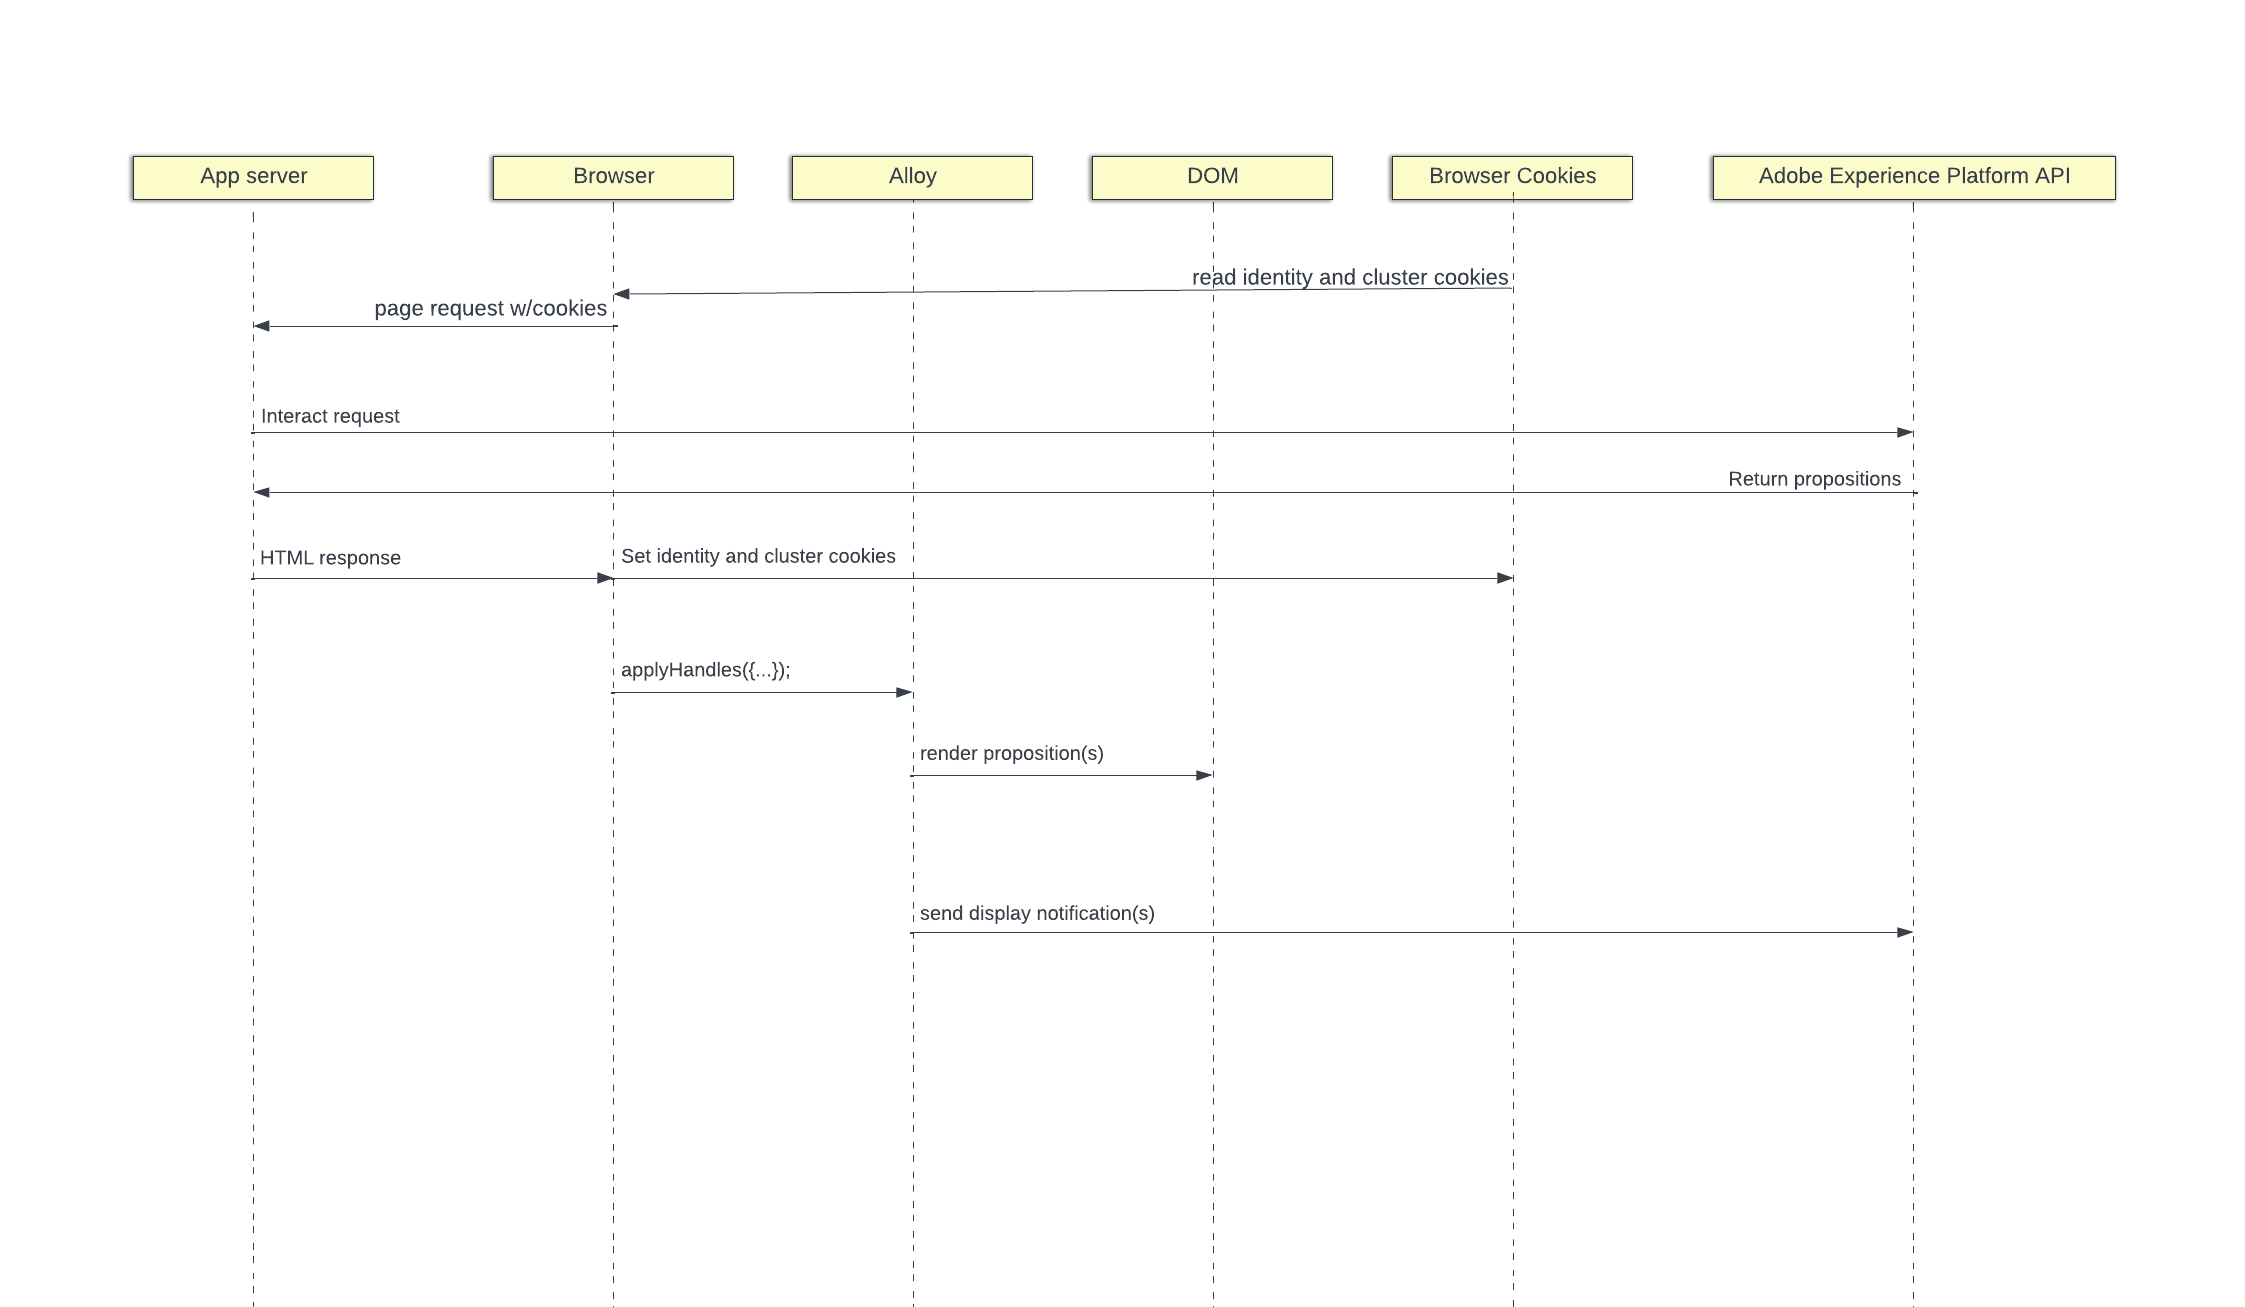
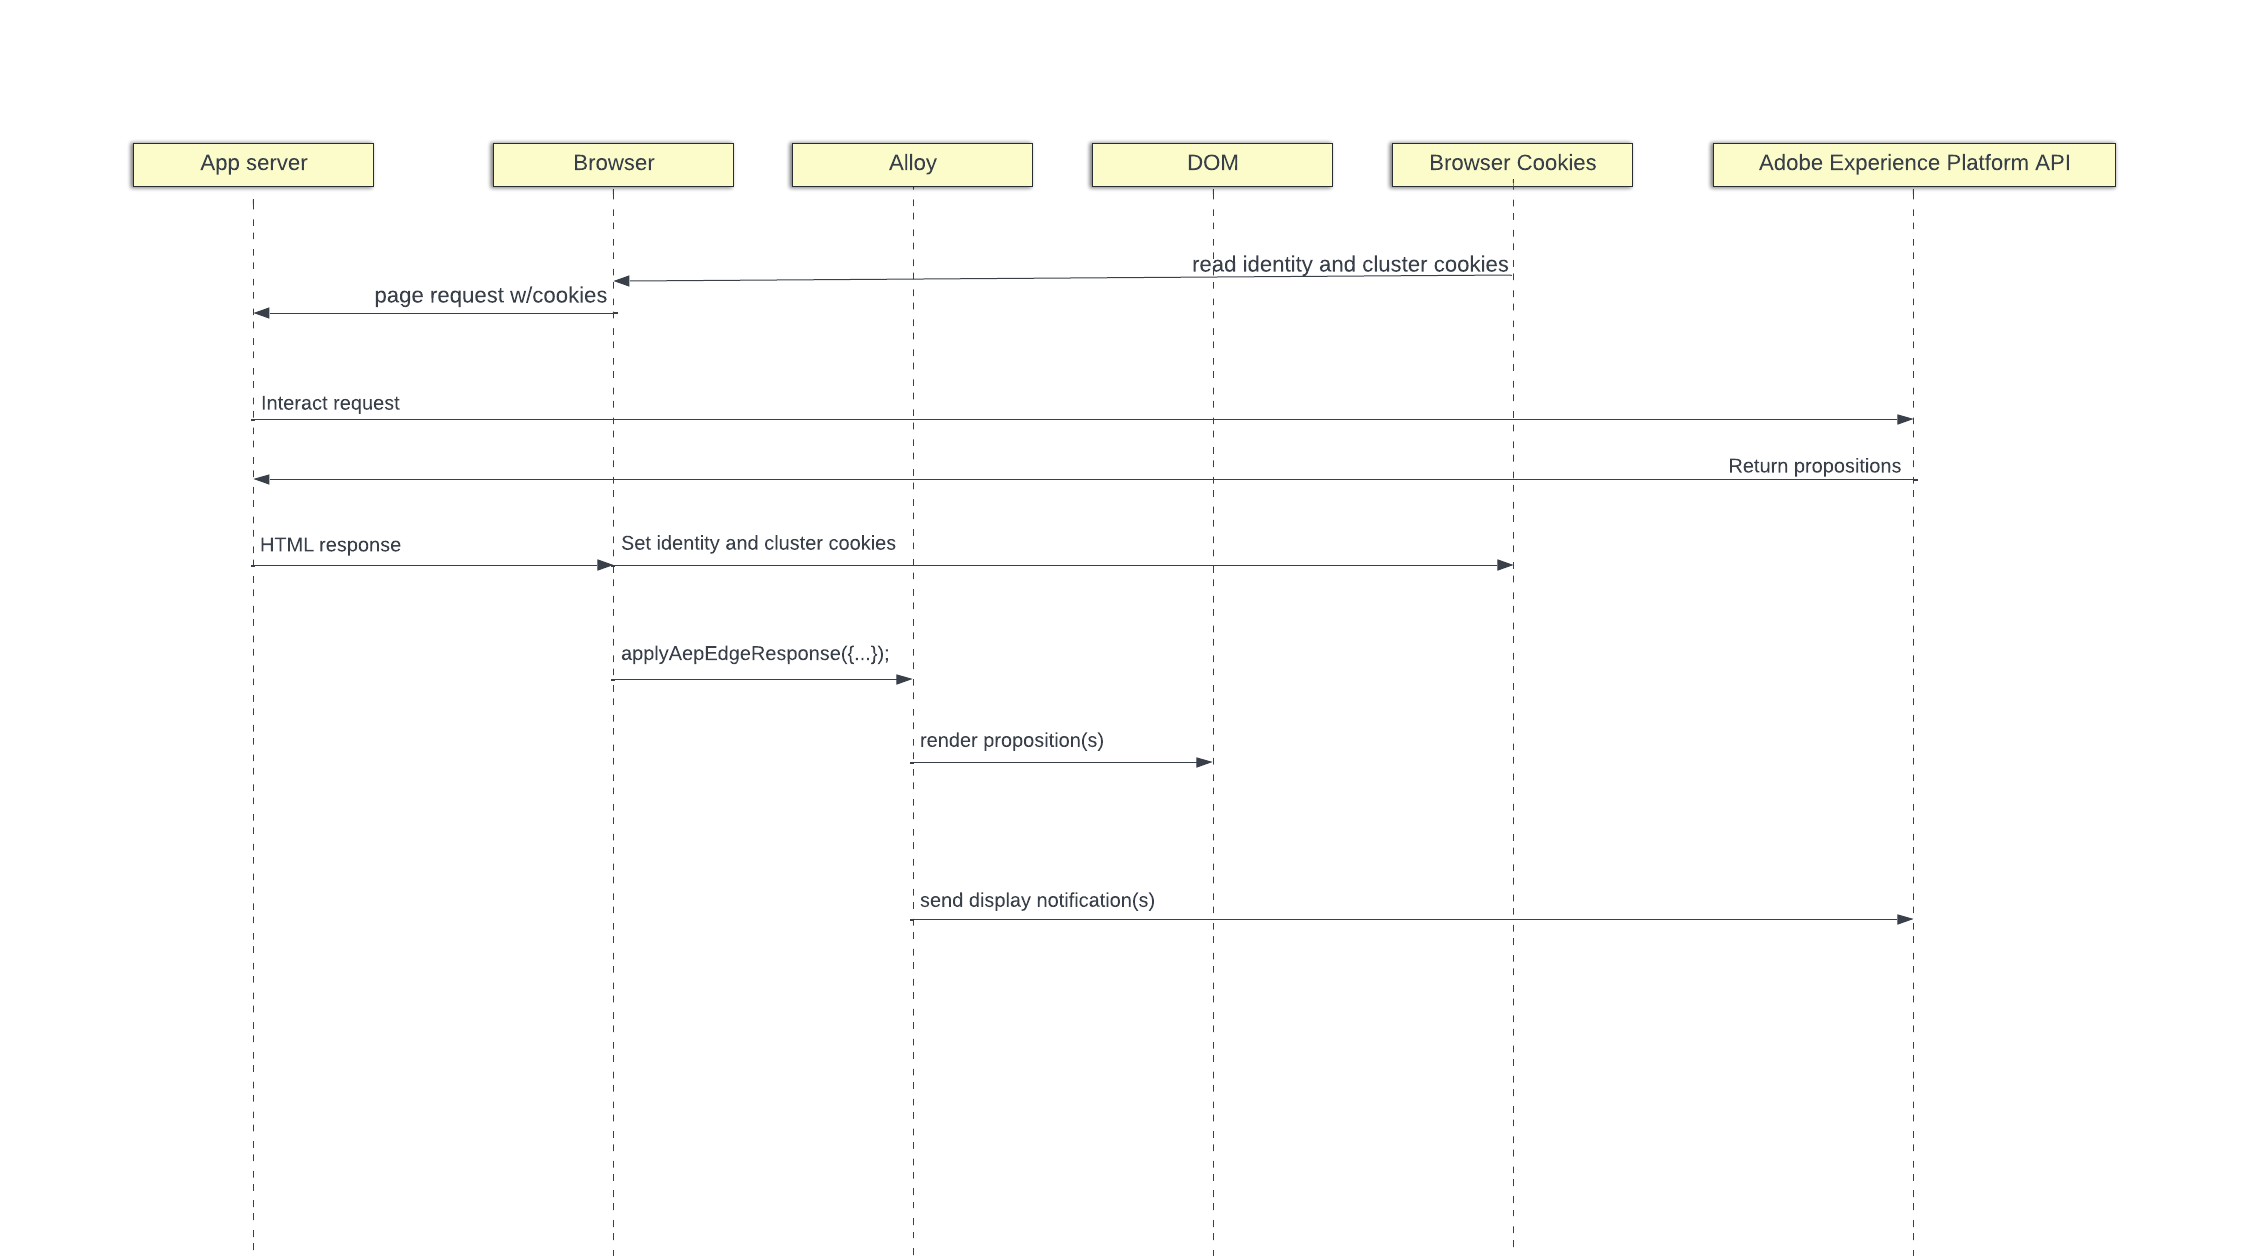
updated readme

diff --git a/target-offers-hybrid/README.md b/target-offers-hybrid/README.md
@@ -4,7 +4,7 @@
 
 This sample demonstrates using Adobe Experience Platform to get personalization content from Adobe Target.  The web page changes based on the personalization content returned.
 
-This sample retrieves personalization content server-side using the [Adobe Experience Platform APIs](https://developer.adobe.com/experience-platform-apis/) and renders it on the client-side using [Adobe Experience Platform Web SDK](https://experienceleague.adobe.com/docs/experience-platform/edge/home.html) using the `applyHandles` command.
+This sample retrieves personalization content server-side using the [Adobe Experience Platform APIs](https://developer.adobe.com/experience-platform-apis/) and renders it on the client-side using [Adobe Experience Platform Web SDK](https://experienceleague.adobe.com/docs/experience-platform/edge/home.html) using the `applyAepEdgeResponse` command.
 
 Here is what the page looks like before and after personalization content is rendered.
 
@@ -111,30 +111,54 @@ fetch(
 ```
 
 4. The appliction server returns a response with HTML and the identity and cluster cookies.
-5. Within the page, the `applyHandles` command is invoked passing in the handles array from the AEP response.
+5. Within the page, the `applyAepEdgeResponse` command is invoked passing in the headers and body of AEP response.
 
 ```javascript
-alloy("applyHandles", {
-  renderDecisions: true,
-  handles: [ // <-- These handles are from the AEP API response that was fulfilled on the app server.  They are embedded in the HTML response
-    {
-      payload: [
-        {
-          id: "XXX",
-          namespace: {
-            code: "ECID",
-          },
-        },
-      ],
-      type: "identity:result",
+alloy("applyAepEdgeResponse", {
+    "renderDecisions": true,
+    "responseHeaders": {
+      "cache-control": "no-cache, no-store, max-age=0, no-transform, private",
+      "connection": "close",
+      "content-encoding": "deflate",
+      "content-type": "application/json;charset=utf-8",
+      "date": "Mon, 11 Jul 2022 19:42:01 GMT",
+      "server": "jag",
+      "strict-transport-security": "max-age=31536000; includeSubDomains",
+      "transfer-encoding": "chunked",
+      "vary": "Origin",
+      "x-adobe-edge": "OR2;9",
+      "x-content-type-options": "nosniff",
+      "x-konductor": "22.6.78-BLACKOUTSERVERDOMAINS:7fa23f82",
+      "x-rate-limit-remaining": "599",
+      "x-request-id": "5c539bd0-33bf-43b6-a054-2924ac58038b",
+      "x-xss-protection": "1; mode=block"
     },
-    {
-      payload: [{...},{...}],
-      type: "personalization:decisions",
-      eventIndex: 0,
+    "responseBody": {
+      "requestId": "5c539bd0-33bf-43b6-a054-2924ac58038b",
+      "handle": [
+        {
+          "payload": [
+            {
+              "id": "XXX",
+              "namespace": {
+                "code": "ECID"
+              }
+            }
+          ],
+          "type": "identity:result"
+        },
+        {
+          "payload": [
+            {...}, 
+            {...}
+          ],
+          "type": "personalization:decisions",
+          "eventIndex": 0
+        }
+      ]
     }
-  ],
-}).then(applyPersonalization("sample-json-offer"));
+  }
+).then(applyPersonalization("sample-json-offer"));
 
 ```
 
